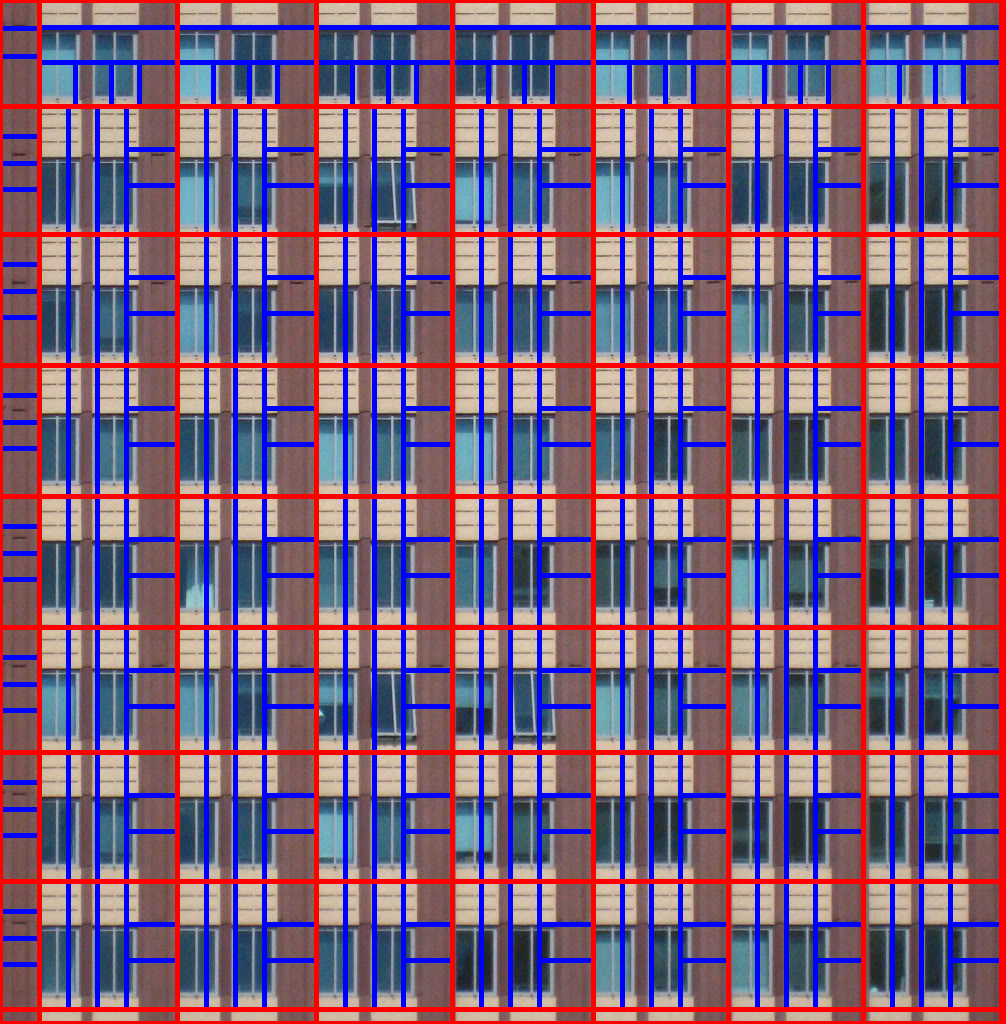
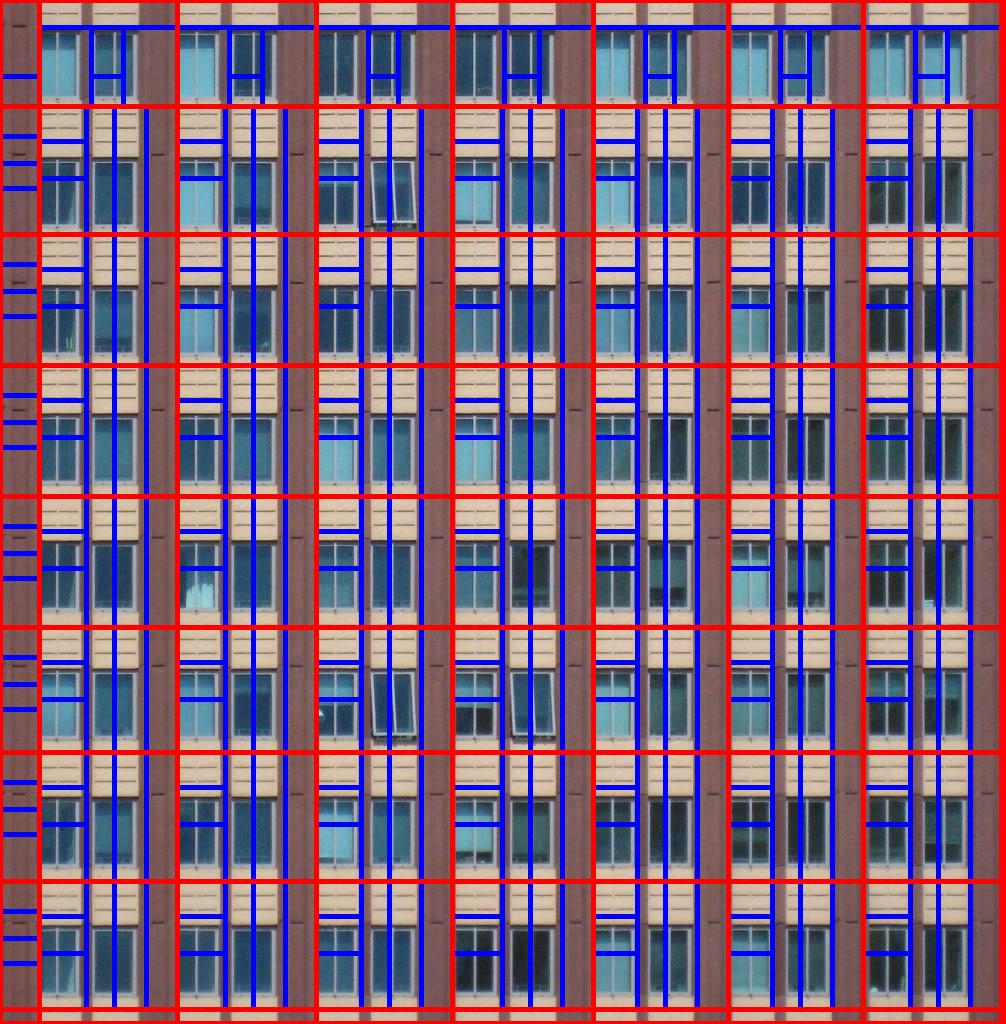
updating Test5.

Changed region(s): [[0.0, 0.0, 0.9861, 1.0]]

diff --git a/Test5/main.cpp b/Test5/main.cpp
@@ -161,41 +161,36 @@ void drawSubdivisionOnTile(cv::Mat& tile, const vector<Subdivision>& subdivision
 	int y2 = tile.rows - 1;
 
 	for (int i = 0; i < subdivisions.size(); ++i) {
-		if (subdivisions[i].dir == 0) {
-			if (subdivisions[i].dist < (x2 - x1) * 0.5) {
-				x1 += subdivisions[i].dist;
-				cv::line(tile, cv::Point(x1, y1), cv::Point(x1, y2), color, thickness);
-
-				if (subdivisions[i].dual) {
-					x2 -= subdivisions[i].dist;
-					cv::line(tile, cv::Point(x2, y1), cv::Point(x2, y2), color, thickness);
-				}
-			}
-			else {
+		if (subdivisions[i].dir == Subdivision::TYPE_LEFT) {
+			x1 += subdivisions[i].dist;
+			cv::line(tile, cv::Point(x1, y1), cv::Point(x1, y2), color, thickness);
+			if (subdivisions[i].dual) {
 				x2 -= subdivisions[i].dist;
 				cv::line(tile, cv::Point(x2, y1), cv::Point(x2, y2), color, thickness);
-				if (subdivisions[i].dual) {
-					x1 -= subdivisions[i].dist;
-					cv::line(tile, cv::Point(x1, y1), cv::Point(x1, y2), color, thickness);
-				}
 			}
 		}
-		else {
-			if (subdivisions[i].dist < (y2 - y1) * 0.5) {
-				y1 += subdivisions[i].dist;
-				cv::line(tile, cv::Point(x1, y1), cv::Point(x2, y1), color, thickness);
-				if (subdivisions[i].dual) {
-					y2 -= subdivisions[i].dist;
-					cv::line(tile, cv::Point(x1, y2), cv::Point(x2, y2), color, thickness);
-				}
+		else if (subdivisions[i].dir == Subdivision::TYPE_RIGHT) {
+			x2 -= subdivisions[i].dist;
+			cv::line(tile, cv::Point(x2, y1), cv::Point(x2, y2), color, thickness);
+			if (subdivisions[i].dual) {
+				x1 -= subdivisions[i].dist;
+				cv::line(tile, cv::Point(x1, y1), cv::Point(x1, y2), color, thickness);
 			}
-			else {
+		}
+		else if (subdivisions[i].dir == Subdivision::TYPE_TOP) {
+			y1 += subdivisions[i].dist;
+			cv::line(tile, cv::Point(x1, y1), cv::Point(x2, y1), color, thickness);
+			if (subdivisions[i].dual) {
 				y2 -= subdivisions[i].dist;
 				cv::line(tile, cv::Point(x1, y2), cv::Point(x2, y2), color, thickness);
-				if (subdivisions[i].dual) {
-					y1 -= subdivisions[i].dist;
-					cv::line(tile, cv::Point(x1, y1), cv::Point(x2, y1), color, thickness);
-				}
+			}
+		}
+		else if (subdivisions[i].dir == Subdivision::TYPE_BOTTOM) {
+			y2 -= subdivisions[i].dist;
+			cv::line(tile, cv::Point(x1, y2), cv::Point(x2, y2), color, thickness);
+			if (subdivisions[i].dual) {
+				y1 -= subdivisions[i].dist;
+				cv::line(tile, cv::Point(x1, y1), cv::Point(x2, y1), color, thickness);
 			}
 		}
 	}
@@ -844,106 +839,107 @@ bool subdivideTile(cv::Mat& tile, Subdivision& subdivide, int min_size) {
 		}
 	}
 
-	// find the split closest to the boundary for each direction, x and y.
-	int min_x_dist = numeric_limits<int>::max();
-	int min_x_index = -1;
+	if (x_set.size() == 0 && y_set.size() == 0) return false;
+
+	// find the split closest to the boundary
+	subdivide.dist = numeric_limits<int>::max();
+	int index = -1;
 	if (x_set.size() > 0) {
 		if (x_set[0] < tile.cols - x_set.back() - 1) {
-			min_x_dist = x_set[0];
-			min_x_index = 0;
+			subdivide.dir = Subdivision::TYPE_LEFT;
+			subdivide.dist = x_set[0];
+			index = 0;
 		}
 		else {
-			min_x_dist = tile.cols - x_set.back() - 1;
-			min_x_index = x_set.size() - 1;
+			subdivide.dir = Subdivision::TYPE_RIGHT;
+			subdivide.dist = tile.cols - x_set.back() - 1;
+			index = x_set.size() - 1;
 		}
 	}
-	int min_y_dist = numeric_limits<int>::max();
-	int min_y_index = -1;
 	if (y_set.size() > 0) {
-		if (y_set[0] < tile.rows - y_set.back() - 1) {
-			min_y_dist = y_set[0];
-			min_y_index = 0;
+		if (y_set[0] < subdivide.dist && y_set[0] < tile.rows - y_set.back() - 1) {
+			subdivide.dir = Subdivision::TYPE_TOP;
+			subdivide.dist = y_set[0];
+			index = 0;
 		}
-		else {
-			min_y_dist = tile.rows - y_set.back() - 1;
-			min_y_index = y_set.size() - 1;
+		else if (tile.rows - y_set.back() - 1 < subdivide.dist) {
+			subdivide.dir = Subdivision::TYPE_BOTTOM;
+			subdivide.dist = tile.rows - y_set.back() - 1;
+			index = y_set.size() - 1;
 		}
-	}
-
-	// find the split closest to the boundary 
-	subdivide.dist = numeric_limits<int>::max();
-	int min_index = -1;
-	subdivide.dir = 0;	// 0 -- x / 1 -- y
-	subdivide.dual = false;
-	if (min_x_dist < min_y_dist) {
-		subdivide.dist = min_x_dist;
-		min_index = min_x_index;
-		subdivide.dir = 0;
-	}
-	else {
-		subdivide.dist = min_y_dist;
-		min_index = min_y_index;
-		subdivide.dir = 1;
 	}
 
 	// find the dual correspondence
-	if (subdivide.dir == 0) {
+	if (subdivide.dir == Subdivision::TYPE_LEFT) {
 		for (int i = 0; i < x_set.size(); ++i) {
-			if (i == min_index) continue;
+			if (i == index) continue;
 
-			int d = min(x_set[i], tile.cols - x_set[i] - 1);
-			if (abs(d - subdivide.dist) < 3 && abs(x_set[i] - x_set[min_index]) > 3) {
+			if (abs(tile.cols - x_set[i] - 1 - subdivide.dist) < 3) {
 				subdivide.dual = true;
 				break;
 			}
 		}
 	}
-	else {
+	else if (subdivide.dir == Subdivision::TYPE_RIGHT) {
+		for (int i = 0; i < x_set.size(); ++i) {
+			if (i == index) continue;
+
+			if (abs(x_set[i] - subdivide.dist) < 3) {
+				subdivide.dual = true;
+				break;
+			}
+		}
+	}
+	else if (subdivide.dir == Subdivision::TYPE_TOP) {
 		for (int i = 0; i < y_set.size(); ++i) {
-			if (i == min_index) continue;
+			if (i == index) continue;
 
-			int d = min(y_set[i], tile.rows - y_set[i] - 1);
-			if (abs(d - subdivide.dist) < 3 && abs(y_set[i] - y_set[min_index]) > 3) {
+			if (abs(tile.rows - y_set[i] - 1 - subdivide.dist) < 3) {
+				subdivide.dual = true;
+				break;
+			}
+		}
+	}
+	else if (subdivide.dir == Subdivision::TYPE_BOTTOM) {
+		for (int i = 0; i < y_set.size(); ++i) {
+			if (i == index) continue;
+
+			if (abs(y_set[i] - subdivide.dist) < 3) {
 				subdivide.dual = true;
 				break;
 			}
 		}
 	}
 
-	if (min_index >= 0) return true;
-	else return false;
+	return true;
 }
 
 /**
  * 領域(x1,y1)-(x2,y2)を分割し、領域を更新する。
  */
 void updateRegion(const Subdivision& subdivision, int& x1, int& y1, int& x2, int& y2) {
-	if (subdivision.dir == 0) {
-		if (subdivision.dist < (x2 - x1) * 0.5) {
-			x1 += subdivision.dist;
-			if (subdivision.dual) {
-				x2 -= subdivision.dist;
-			}
-		}
-		else {
+	if (subdivision.dir == Subdivision::TYPE_LEFT) {
+		x1 += subdivision.dist;
+		if (subdivision.dual) {
 			x2 -= subdivision.dist;
-			if (subdivision.dual) {
-				x1 -= subdivision.dist;
-			}
 		}
 	}
-	else {
-		if (subdivision.dist < (y2 - y1) * 0.5) {
-			y1 += subdivision.dist;
-			if (subdivision.dual) {
-				y2 -= subdivision.dist;
-			}
+	else if (subdivision.dir == Subdivision::TYPE_RIGHT) {
+		x2 -= subdivision.dist;
+		if (subdivision.dual) {
+			x1 -= subdivision.dist;
 		}
-		else {
+	}
+	else if (subdivision.dir == Subdivision::TYPE_TOP) {
+		y1 += subdivision.dist;
+		if (subdivision.dual) {
 			y2 -= subdivision.dist;
-			if (subdivision.dual) {
-				y1 -= subdivision.dist;
-			}
+		}
+	}
+	else if (subdivision.dir == Subdivision::TYPE_BOTTOM) {
+		y2 -= subdivision.dist;
+		if (subdivision.dual) {
+			y1 -= subdivision.dist;
 		}
 	}
 }
@@ -999,17 +995,22 @@ bool subdivideFacadeTilesByOneStep(cv::Mat& img, vector<vector<int>>& y_set, vec
 			// find the maximum vote for horizontal split
 			float x_vote_max;
 			Subdivision x_subdivide(0, false, 0);
-			/*
-			int x_vote_dist;
-			bool x_vote_dual;*/
 			{
 				vector<float> histogram(x_set[j][1] - x_set[j][0], 0.0f);
 
 				for (int s = 0; s < votes[i][j].size(); ++s) {
-					if (votes[i][j][s].dir != 0) continue;
+					if (votes[i][j][s].dir == Subdivision::TYPE_TOP || votes[i][j][s].dir == Subdivision::TYPE_BOTTOM) continue;
+
+					int dist;
+					if (votes[i][j][s].dir == Subdivision::TYPE_LEFT) {
+						dist = votes[i][j][s].dist;
+					}
+					else if (votes[i][j][s].dir == Subdivision::TYPE_RIGHT) {
+						dist = x_set[j][1] - x_set[j][0] - votes[i][j][s].dist;
+					}
 
 					for (int c = 0; c < x_set[j][1] - x_set[j][0]; ++c) {
-						histogram[c] += utils::gause(c - votes[i][j][s].dist, sigma);
+						histogram[c] += utils::gause(c - dist, sigma);
 					}
 				}
 
@@ -1019,10 +1020,19 @@ bool subdivideFacadeTilesByOneStep(cv::Mat& img, vector<vector<int>>& y_set, vec
 				// select the type
 				int min_dist = numeric_limits<int>::max();
 				for (int s = 0; s < votes[i][j].size(); ++s) {
-					int d = abs(votes[i][j][s].dist - x_subdivide.dist);
-					if (d < min_dist) {
-						min_dist = d;
-						x_subdivide.dual = votes[i][j][s].dual;
+					if (votes[i][j][s].dir == Subdivision::TYPE_LEFT) {
+						int d = abs(votes[i][j][s].dist - x_subdivide.dist);
+						if (d < min_dist) {
+							min_dist = d;
+							x_subdivide = votes[i][j][s];
+						}
+					}
+					else if (votes[i][j][s].dir == Subdivision::TYPE_RIGHT) {
+						int d = abs(x_set[j][1] - x_set[j][0] - votes[i][j][s].dist - x_subdivide.dist);
+						if (d < min_dist) {
+							min_dist = d;
+							x_subdivide = votes[i][j][s];
+						}
 					}
 				}
 			}
@@ -1034,10 +1044,18 @@ bool subdivideFacadeTilesByOneStep(cv::Mat& img, vector<vector<int>>& y_set, vec
 				vector<float> histogram(y_set[j][1] - y_set[j][0], 0.0f);
 
 				for (int s = 0; s < votes[i][j].size(); ++s) {
-					if (votes[i][j][s].dir != 1) continue;
+					if (votes[i][j][s].dir == Subdivision::TYPE_LEFT || votes[i][j][s].dir == Subdivision::TYPE_RIGHT) continue;
+
+					int dist;
+					if (votes[i][j][s].dir == Subdivision::TYPE_TOP) {
+						dist = votes[i][j][s].dist;
+					}
+					else if (votes[i][j][s].dir == Subdivision::TYPE_BOTTOM) {
+						dist = y_set[j][1] - y_set[j][0] - votes[i][j][s].dist;
+					}
 
 					for (int r = 0; r < y_set[j][1] - y_set[j][0]; ++r) {
-						histogram[r] += utils::gause(r - votes[i][j][s].dist, sigma);
+						histogram[r] += utils::gause(r - dist, sigma);
 					}
 				}
 
@@ -1047,10 +1065,19 @@ bool subdivideFacadeTilesByOneStep(cv::Mat& img, vector<vector<int>>& y_set, vec
 				// select the type
 				int min_dist = numeric_limits<int>::max();
 				for (int s = 0; s < votes[i][j].size(); ++s) {
-					int d = abs(votes[i][j][s].dist - y_subdivide.dist);
-					if (d < min_dist) {
-						min_dist = d;
-						y_subdivide.dual = votes[i][j][s].dual;
+					if (votes[i][j][s].dir == Subdivision::TYPE_TOP) {
+						int d = abs(votes[i][j][s].dist - y_subdivide.dist);
+						if (d < min_dist) {
+							min_dist = d;
+							y_subdivide = votes[i][j][s];
+						}
+					}
+					else if (votes[i][j][s].dir == Subdivision::TYPE_BOTTOM) {
+						int d = abs(y_set[j][1] - y_set[j][0] - votes[i][j][s].dist - y_subdivide.dist);
+						if (d < min_dist) {
+							min_dist = d;
+							y_subdivide = votes[i][j][s];
+						}
 					}
 				}
 			}
